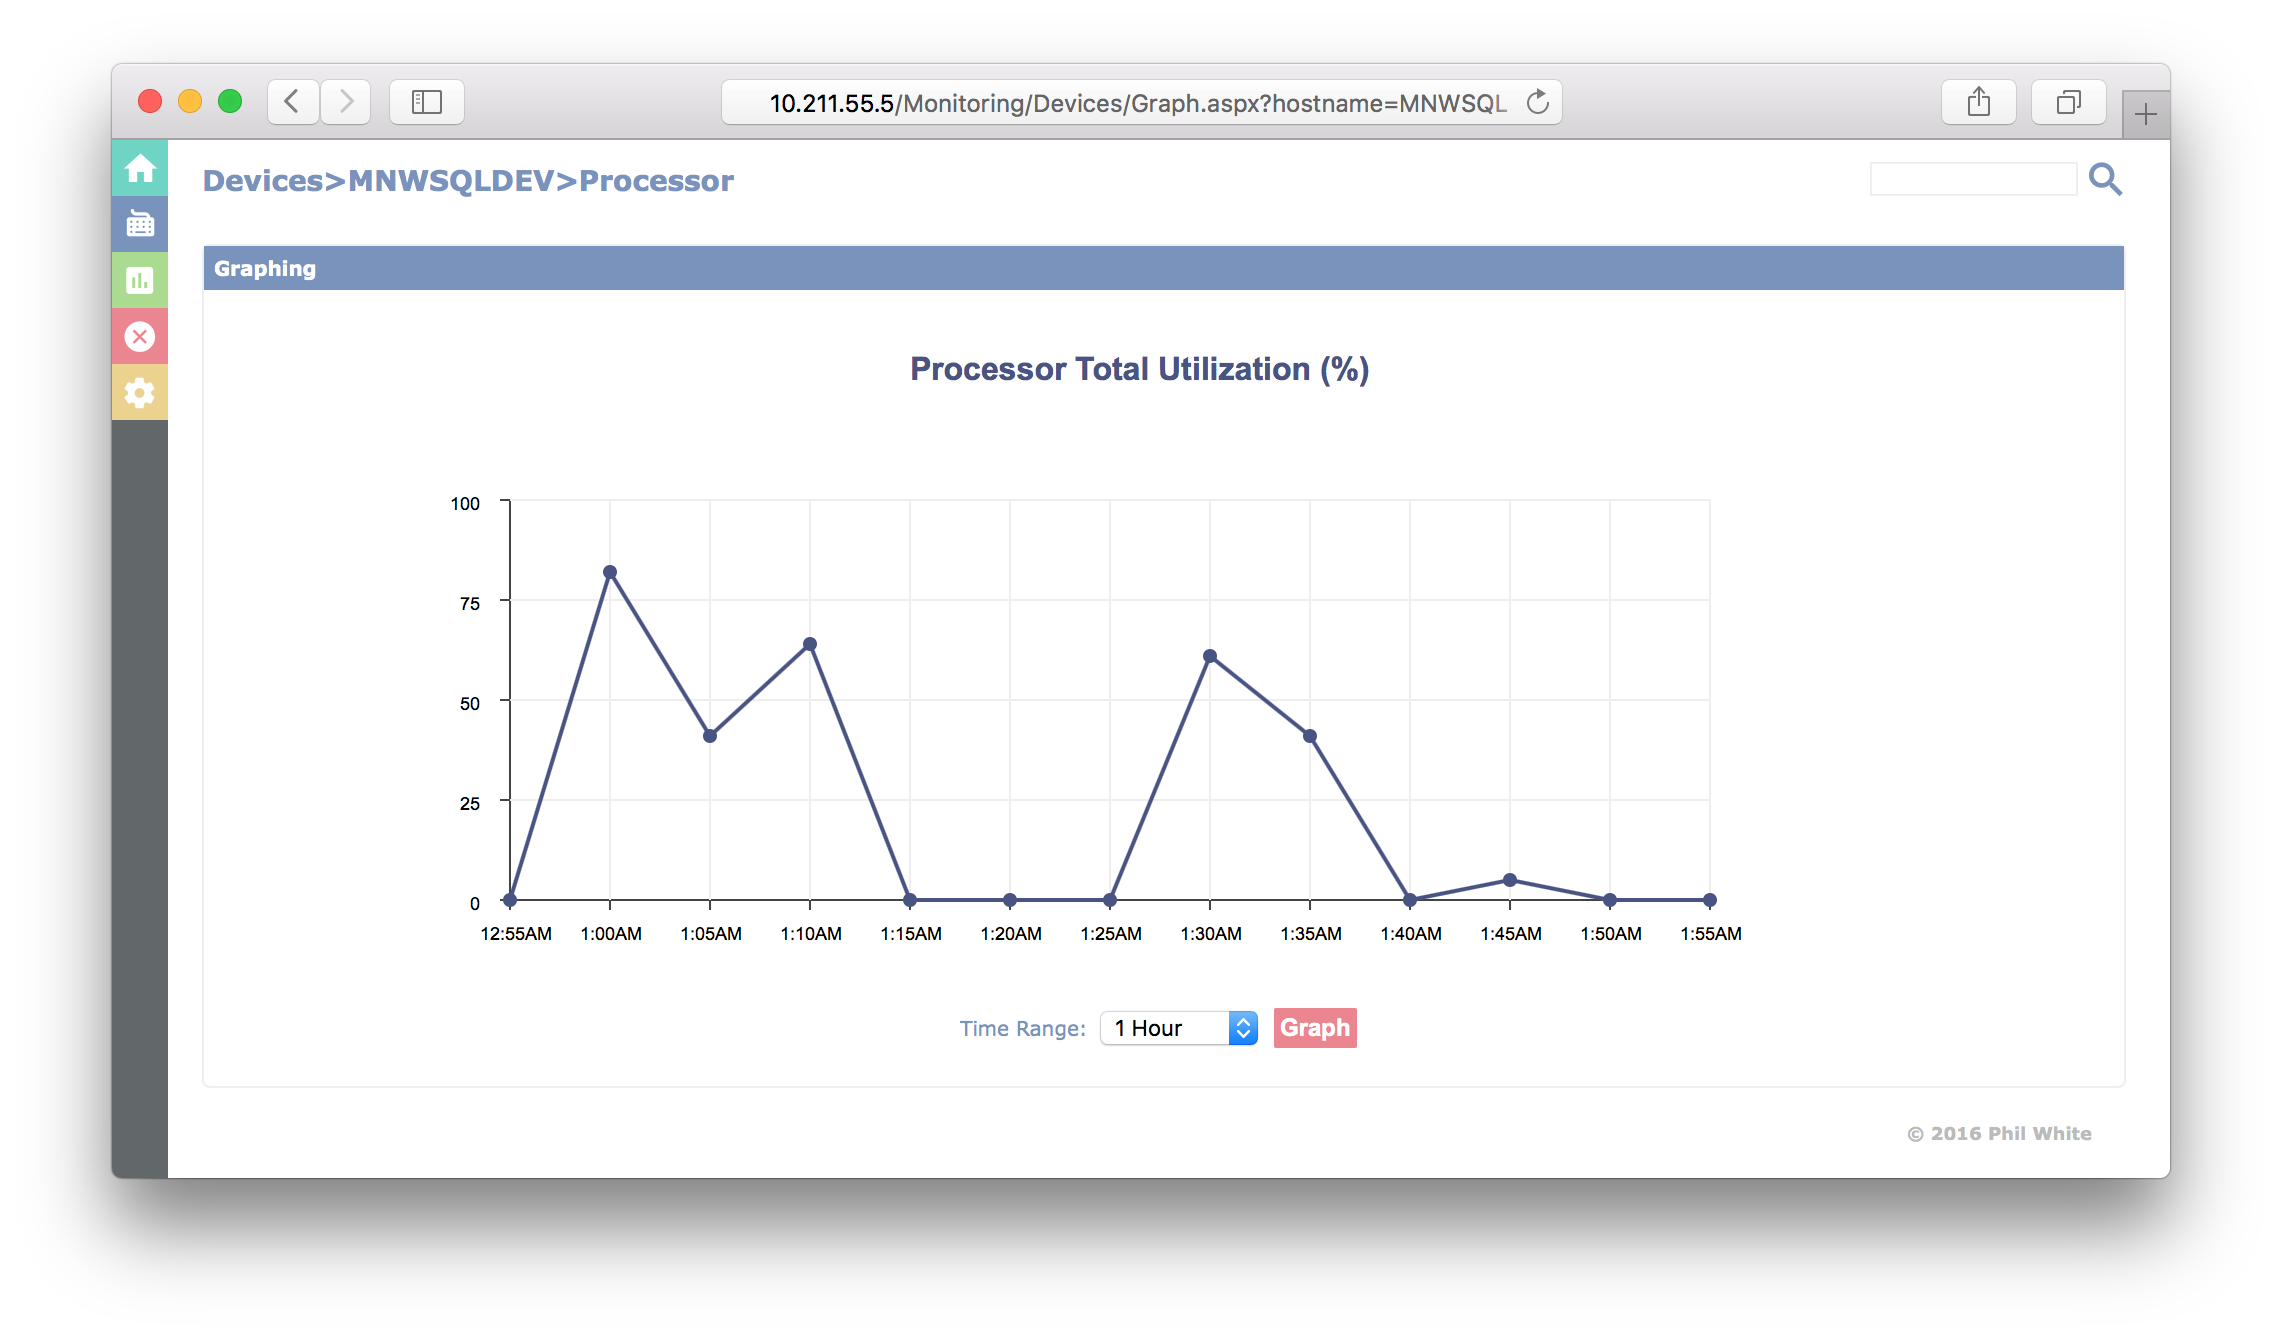
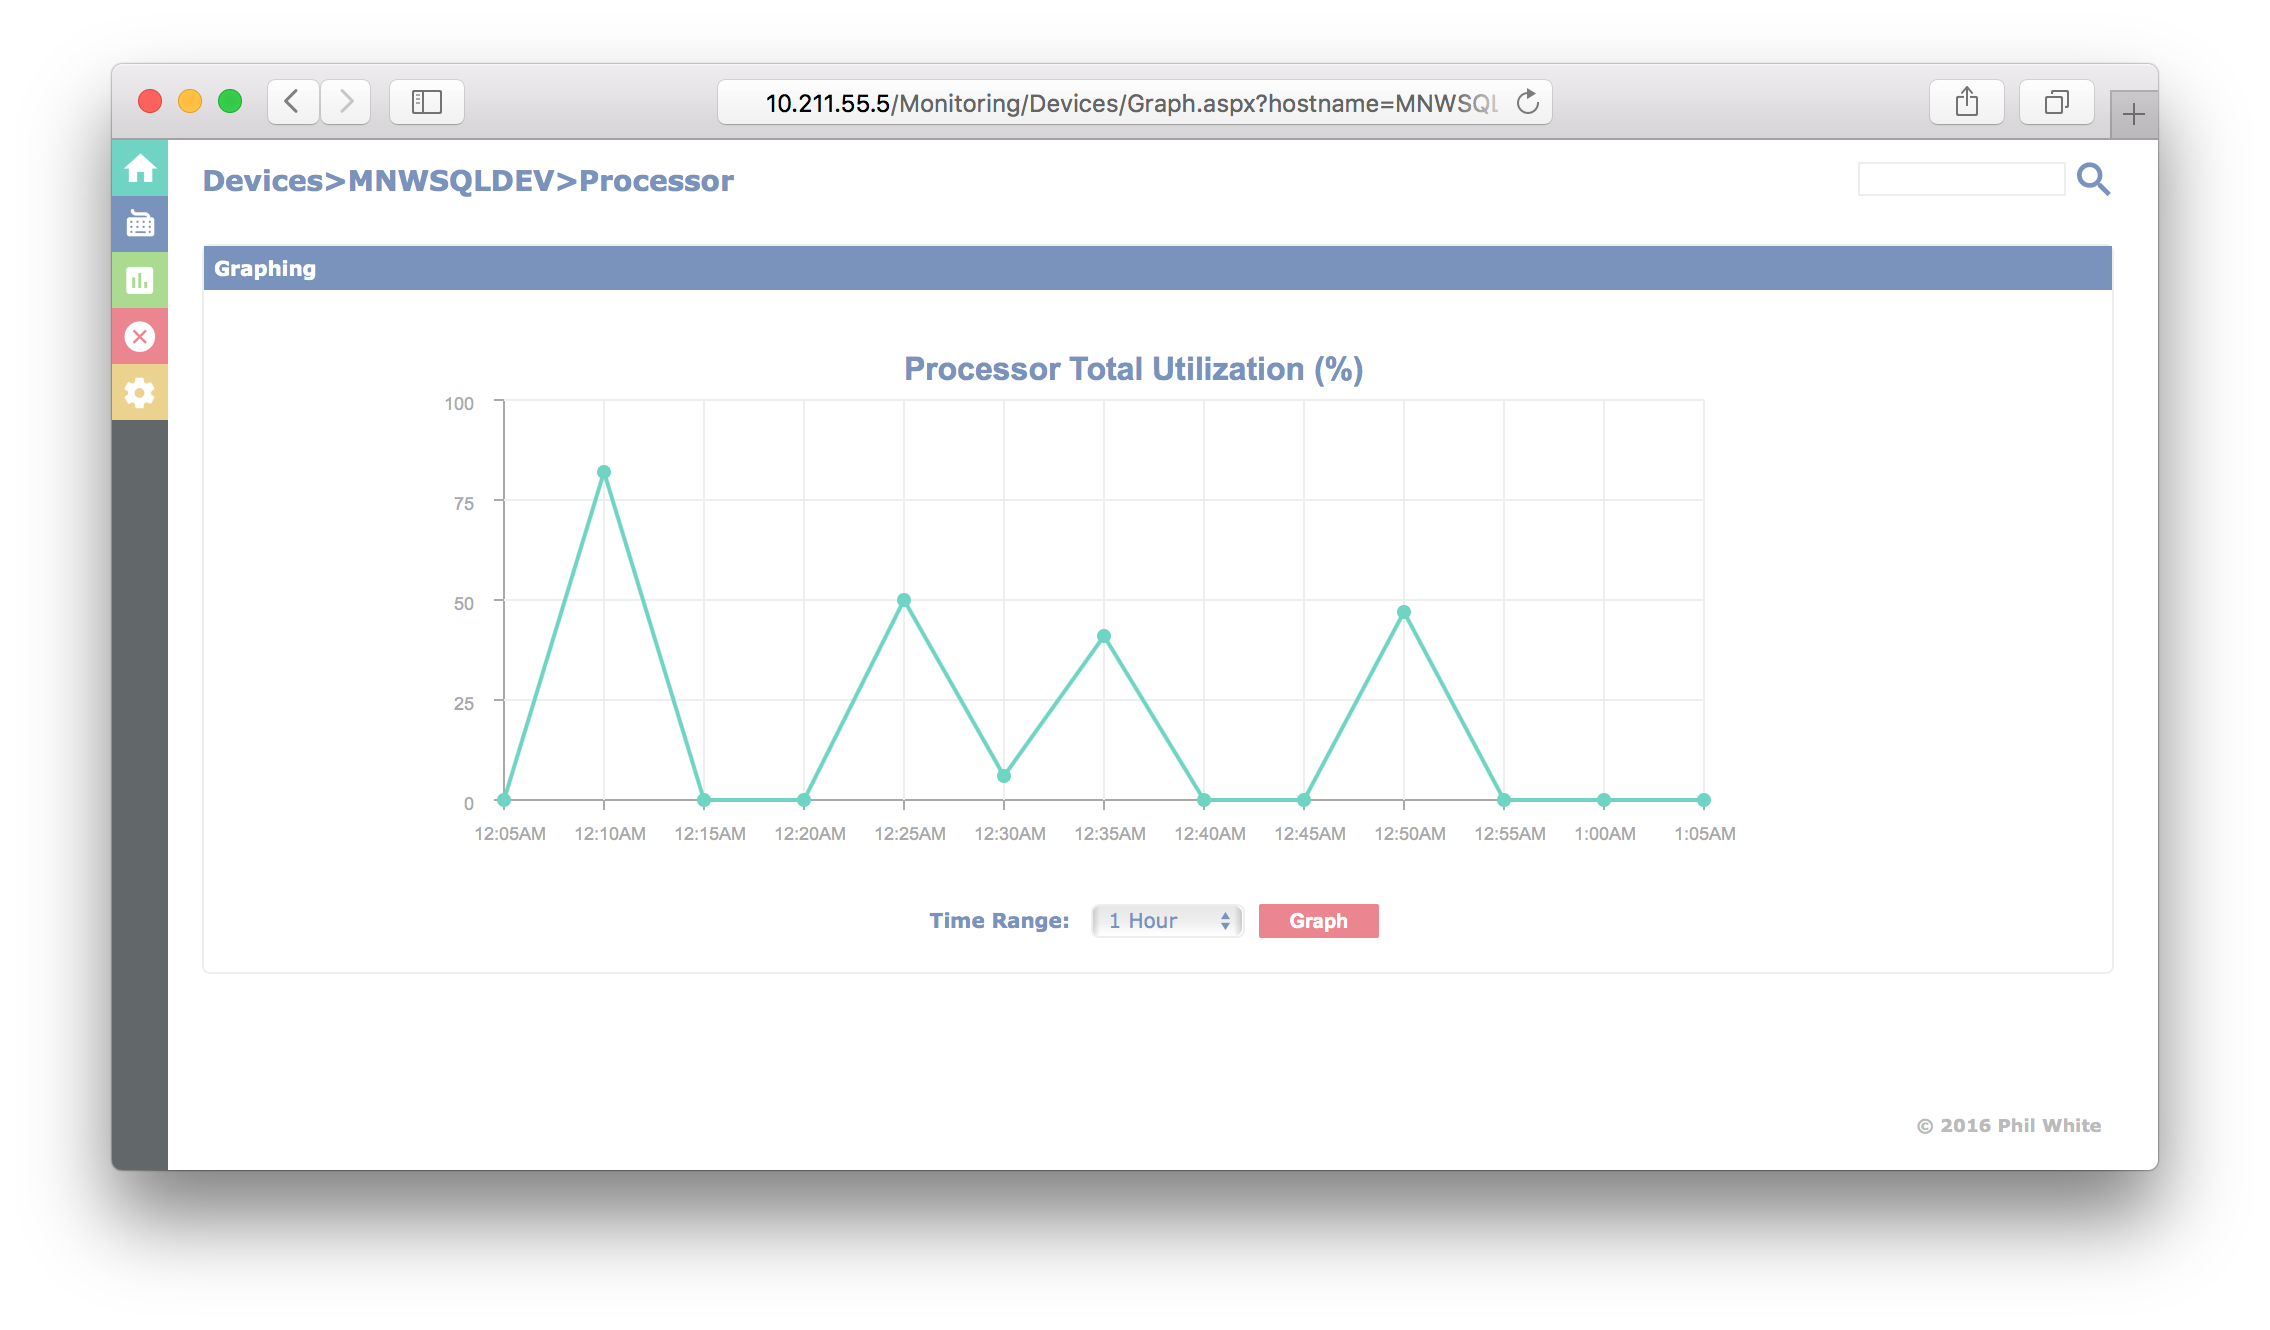
Monitoring Server 2016-01-22
Monitoring Server 2016-01-22

diff --git a/README.md b/README.md
@@ -1,4 +1,4 @@
-# MonitoringServer 0.5.1b
+# MonitoringServer 0.5.2b
 
 ##About
 
@@ -25,6 +25,13 @@ For setup and configuration please see the new Wiki
 
 
 ##Change Log
+
+
+###Changes for Version 0.5.2b (2016/01/22):
+
+1.  Fixed a bug with the data engine.  Old data should now be averaged and archived on the hour.
+
+2.  Updated graphing screenshot.
 
 
 ###Changes for Version 0.5.1b (2016/01/21):
